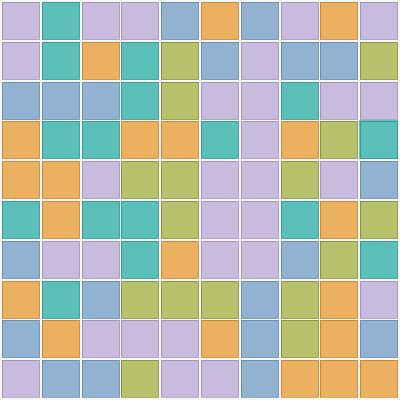
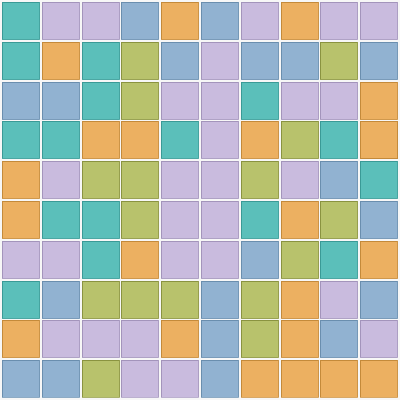
Commented

diff --git a/Ponder Playwright.py b/Ponder Playwright.py
@@ -48,7 +48,7 @@ with sync_playwright() as p:
     sleep(0.5)
     page.get_by_role("button", name="Close").click()
 
-    #Positional debugging to find the bounding box of the How to play button
+    #OLD Positional debugging to find the bounding box of the How to play button
     #htb_size = how_to_button.bounding_box()
     #height = htb_size['height']
     #width = htb_size["width"]
@@ -72,7 +72,7 @@ height = dimensions[0]
 width = dimensions[1]
 
 #Editing the image down to size: i no longer need to crop the image down as the cssSelector for this exact class is availaible
-#and isnt hidden
+#isnt hidden
 #cropped_img = image[168:(height-113),400:(width-400)]
 
 #cv2.imwrite('cropped_grid.png',cropped_img)
@@ -204,25 +204,27 @@ def check(two_d_list):
 #Attempting to solve the flood it game using chain theory to choose the most populat color adjacent to the current chain of same color
 def chain_theory():
     cols_array[:] = grid_to_array()
-    global move_count
+    global move_count, chain_arr
+
+    chain_arr = [(0, 0)]
+    move_count = 0
+    move_sequence = []
+
     while not (check(cols_array)):
         color_shift()
-        move_count +=1
+        move_sequence.append(freq_color)
+        move_count += 1
+
     print("Total moves used for popular chain algorithm: " + str(move_count))
+    return move_sequence
 
 #New adjacency check for region conversion
 def adjacency(a, b, rows=10, cols=10):
     candidates = [(a-1, b), (a+1, b), (a, b-1), (a, b+1)]
     return [(r, c) for r, c in candidates if 0 <= r < rows and 0 <= c < cols]
 
+#Collapses a 2D grid of colors into connected regions.
 def find_regions(grid):
-    """
-    Collapse a 2D grid of colors into connected regions.
-
-    grid: list of lists, grid[row][col] = color string
-
-    Returns: dict mapping region_index -> {'color': str, 'cells': set of (row, col)}
-    """
     rows, cols = len(grid), len(grid[0])
     visited = set()
     regions = {}
@@ -251,14 +253,8 @@ def find_regions(grid):
             next_index += 1
 
     return regions
-
+#Given a list of regions (from find_regions), determines which regions are adjacent to each other.
 def build_region_graph(regions):
-    """
-    Given a list of regions (from find_regions), determine which
-    regions are adjacent to each other.
-
-    Returns: dict mapping region_index -> set of neighboring region_indices
-    """
     cell_to_region = {}
     for i, region in regions.items():
         for cell in region['cells']:
@@ -276,14 +272,10 @@ def build_region_graph(regions):
 
     return graph
 
-def bfs_distances(graph, start):
-    """
-    Given a region graph and a starting region index, compute the
-    shortest-path distance (in hops) from `start` to every other
-    reachable region.
+#Given a region graph and a starting region index, this function computes the
+#shortest-path distance (in hops) from `start` to every other reachable region.
 
-    Returns: dict mapping region_index -> distance (number of hops from start)
-    """
+def bfs_distances(graph, start):
     distances = {start: 0}
     queue = deque([start])
 
@@ -299,18 +291,13 @@ def bfs_distances(graph, start):
 def heuristic(graph):
     return max(bfs_distances(graph, 0).values())
 
+#Simulates choosing `color` as the next move. Merges every region directly adjacent to `root` 
+#that has color `color` into `root`. graph: dict, region_index -> set of neighboring region_indices
+
+#regions: dict, region_index -> {'color': str, 'cells': set}
+#root: int, the region index currently representing the captured blob
+#color: str, the color being chosen for this move
 def make_move(graph, regions, root, color):
-    """
-    Simulate choosing `color` as the next move. Merges every region
-    directly adjacent to `root` that has color `color` into `root`.
-
-    graph: dict, region_index -> set of neighboring region_indices
-    regions: dict, region_index -> {'color': str, 'cells': set}
-    root: int, the region index currently representing the captured blob
-    color: str, the color being chosen for this move
-
-    Returns: (new_graph, new_regions) — fresh copies, inputs untouched.
-    """
     to_absorb = set()
     for i in graph[root]:
         if regions[i]['color'] == color:
@@ -341,14 +328,10 @@ def make_move(graph, regions, root, color):
 
 FOUND = "FOUND"  # sentinel value, distinct from any number
 
+#threshold: current IDA* cost limit
+#Returns FOUND if solved within threshold, otherwise returns the smallest
+#f-value that exceeded threshold (for the outer loop to use next).
 def ida_search(graph, regions, root, g, threshold, path):
-    """
-    g: moves made so far to reach this state
-    threshold: current IDA* cost limit
-
-    Returns FOUND if solved within threshold, otherwise the smallest
-    f-value that exceeded threshold (for the outer loop to use next).
-    """
     f = g + heuristic(graph)
     if f > threshold:
         return f
@@ -396,7 +379,8 @@ def solve_pipeline_check():
     return graph, regions
 
 def test_regions():
-    """
+    
+    #OLDER TESTING 
     grid = grid_to_array()
     regions = find_regions(grid)
     print(f"Board collapsed into {len(regions)} regions")
@@ -417,8 +401,7 @@ def test_regions():
     print("Regions before:", len(regions), "-> after:", len(new_regions))
     print("Root's cell count before:", len(regions[0]['cells']), "-> after:", len(new_regions[0]['cells']))
     print("Original untouched? root cells still:", len(regions[0]['cells']))
-    """
-
+    
     grid = grid_to_array()
     regions = find_regions(grid)
     graph = build_region_graph(regions)
@@ -428,26 +411,25 @@ def test_regions():
     print(f"Move sequence: {move_sequence}")
 
 def solver(method):
-    if (method == "a*"):
+    if (method == "IDA*"):
         grid = grid_to_array()
         regions = find_regions(grid)
         graph = build_region_graph(regions)
-    
+
         optimal, move_sequence = ida_star(graph, regions)
         print(f"Optimal move count: {optimal}")
         print(f"Move sequence: {move_sequence}")
-    elif(method == "greedy"):
-        chain_theory()
+    elif (method == "Greedy"):
+        move_sequence = chain_theory()
+        print(f"Move sequence: {move_sequence}")
 
 
 def main():
-    solver("a*")
+    solver("Greedy")
+    solver("IDA*")
     
 
 main()
 
-
-#Brute force to find the optimal solution. Optimized however to prevent using colors that cannot be accessed.
 #Prime box is top left since this is where it starts
 
-#Conway game of life
